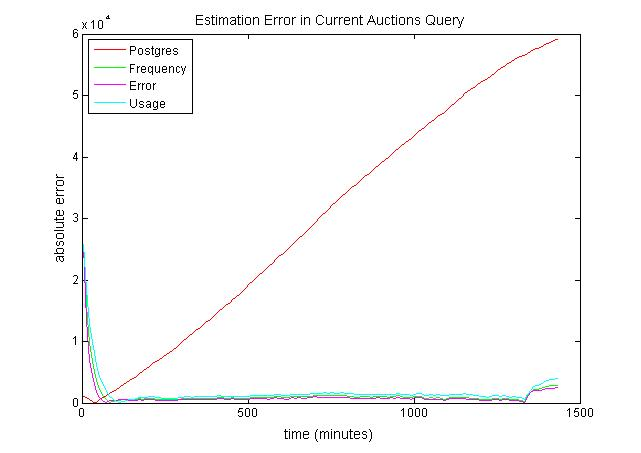
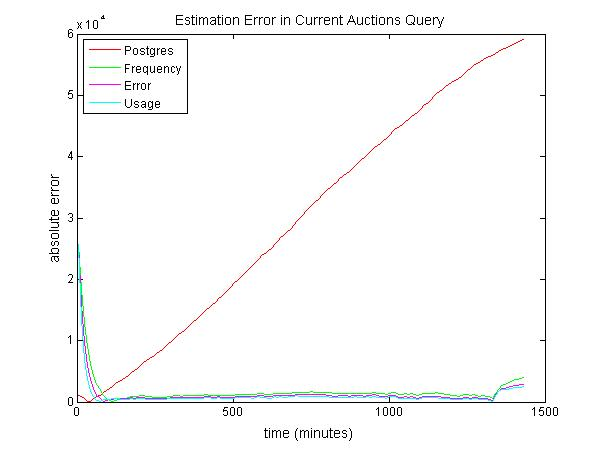
fuck jose

diff --git a/pwngres/data/generatePlots.m b/pwngres/data/generatePlots.m
@@ -1,19 +1,38 @@
 function generatePlots(data)
 
     colors = 'rgmcb'; 
-    x = [1:5:1440];
+    x = [1:10:1440];
 
-    for i=1:5,
-        semilogy(x, data(:,i), colors(i))
-        hold on
-    end
+    semilogy(x, data(:,1), colors(1))
+    hold on
+    semilogy(x, data(:,4), colors(2))
+    semilogy(x, data(:,2), colors(3))
+    semilogy(x, data(:,3), colors(4))
+    semilogy(x, data(:,5), colors(5))
+    
+%     for i=1:5,
+%         semilogy(x, data(:,i), colors(i))
+%         hold on
+%     end
     
     figure
     
-    for i=1:4,
-        error = abs(data(:,i) - data(:,5));
-        plot(x, error, colors(i))
-        hold on
-    end
+    error = abs(data(:,1) - data(:,5));
+    plot(x, error, colors(1))
+    hold on
+    error = abs(data(:,4) - data(:,5));
+    plot(x, error, colors(2))
+    error = abs(data(:,2) - data(:,5));
+    plot(x, error, colors(3))
+    error = abs(data(:,3) - data(:,5));
+    plot(x, error, colors(4))
+    error = abs(data(:,5) - data(:,5));
+    plot(x, error, colors(5))
+    
+%     for i=1:4,
+%         error = abs(data(:,i) - data(:,5));
+%         plot(x, error, colors(i))
+%         hold on
+%     end
 
 end
